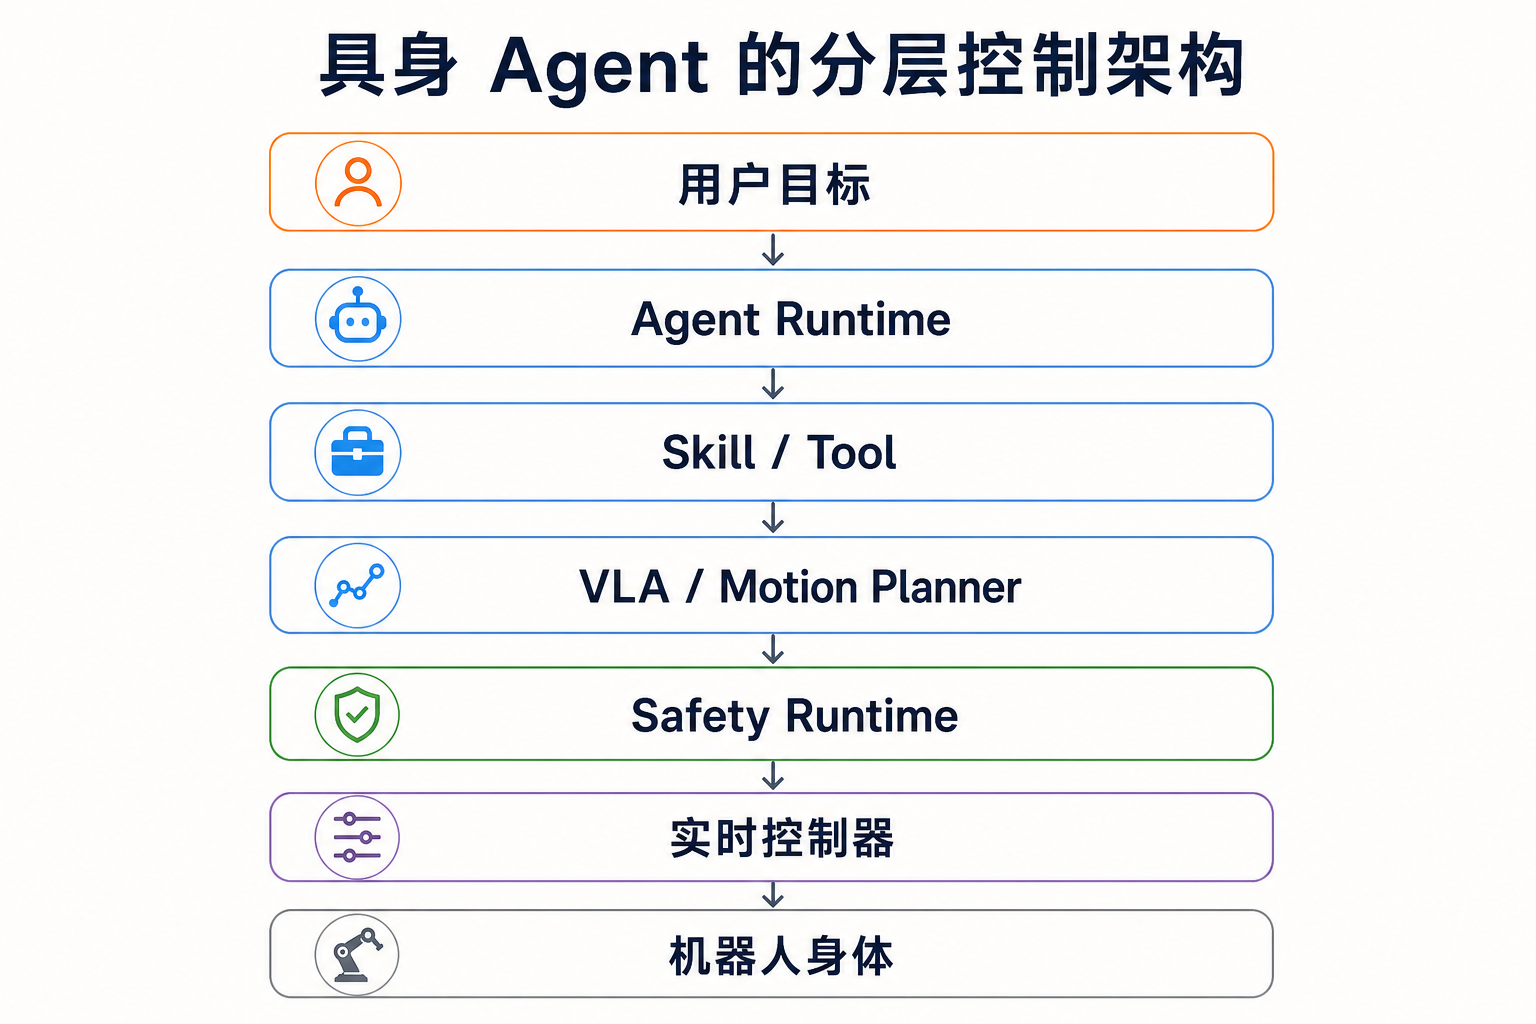
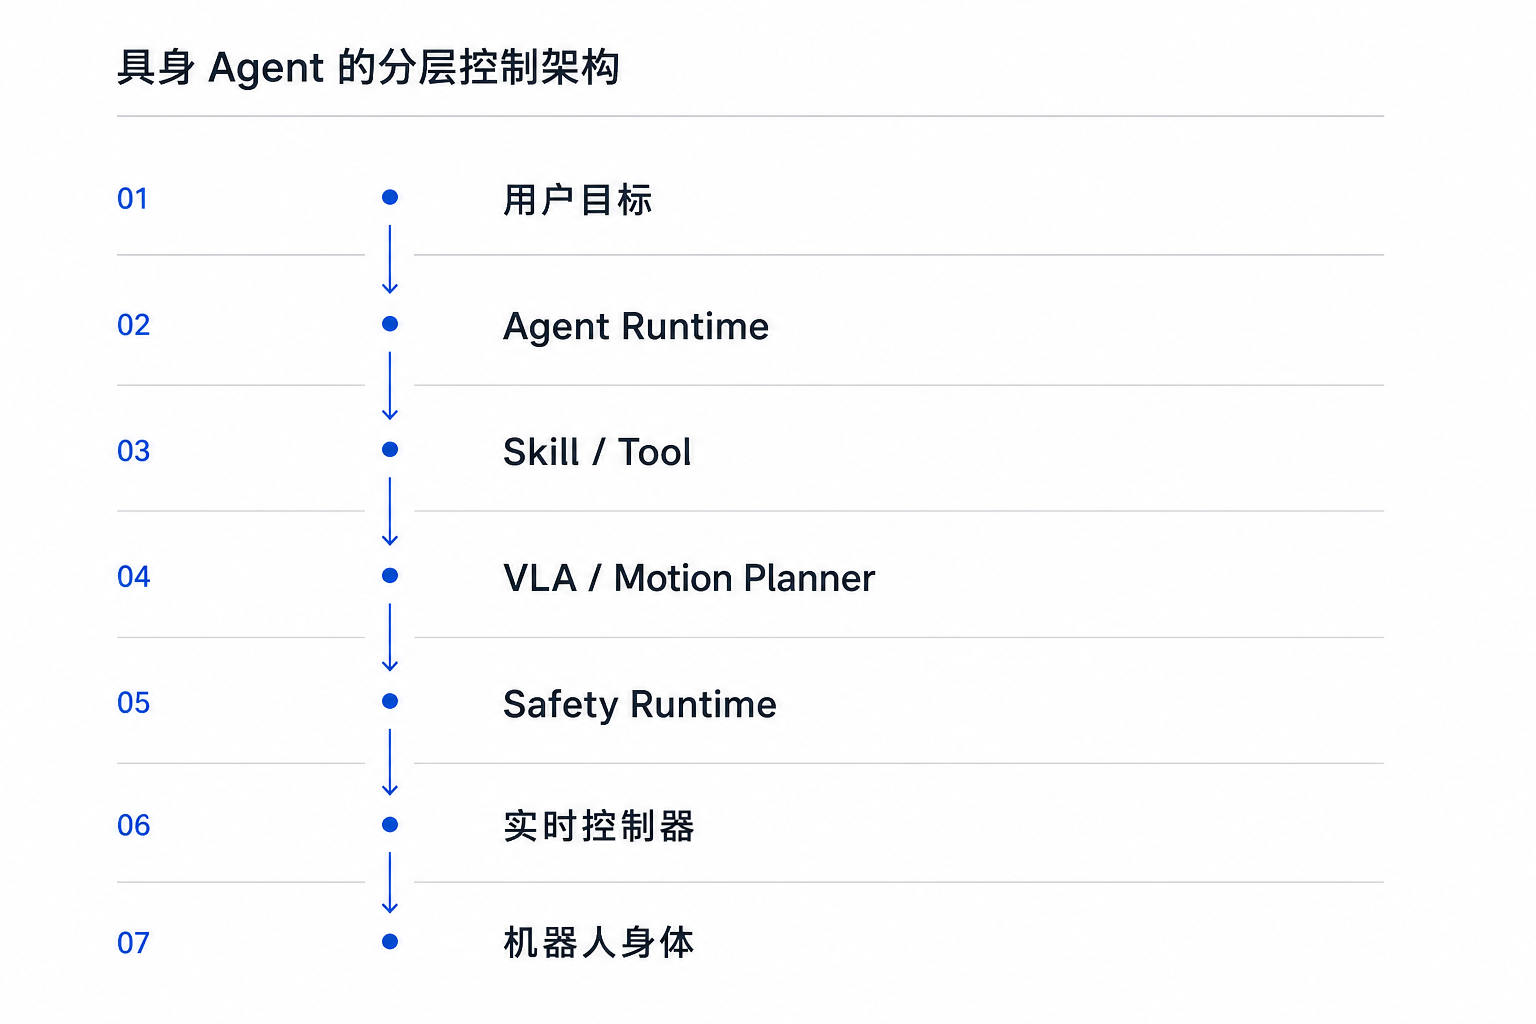
Refine diagrams with modern minimal design

diff --git a/src/content/posts/embodied-ai-as-agent-tools.md b/src/content/posts/embodied-ai-as-agent-tools.md
@@ -1,7 +1,7 @@
 ---
 author: Yinsen
 pubDatetime: 2026-08-30T09:04:00+08:00
-modDatetime: 2026-08-30T09:56:42+08:00
+modDatetime: 2026-08-30T10:07:00+08:00
 title: 机器人不必由大模型直接控制：把身体变成 Agent 的 Tool
 featured: true
 draft: false
